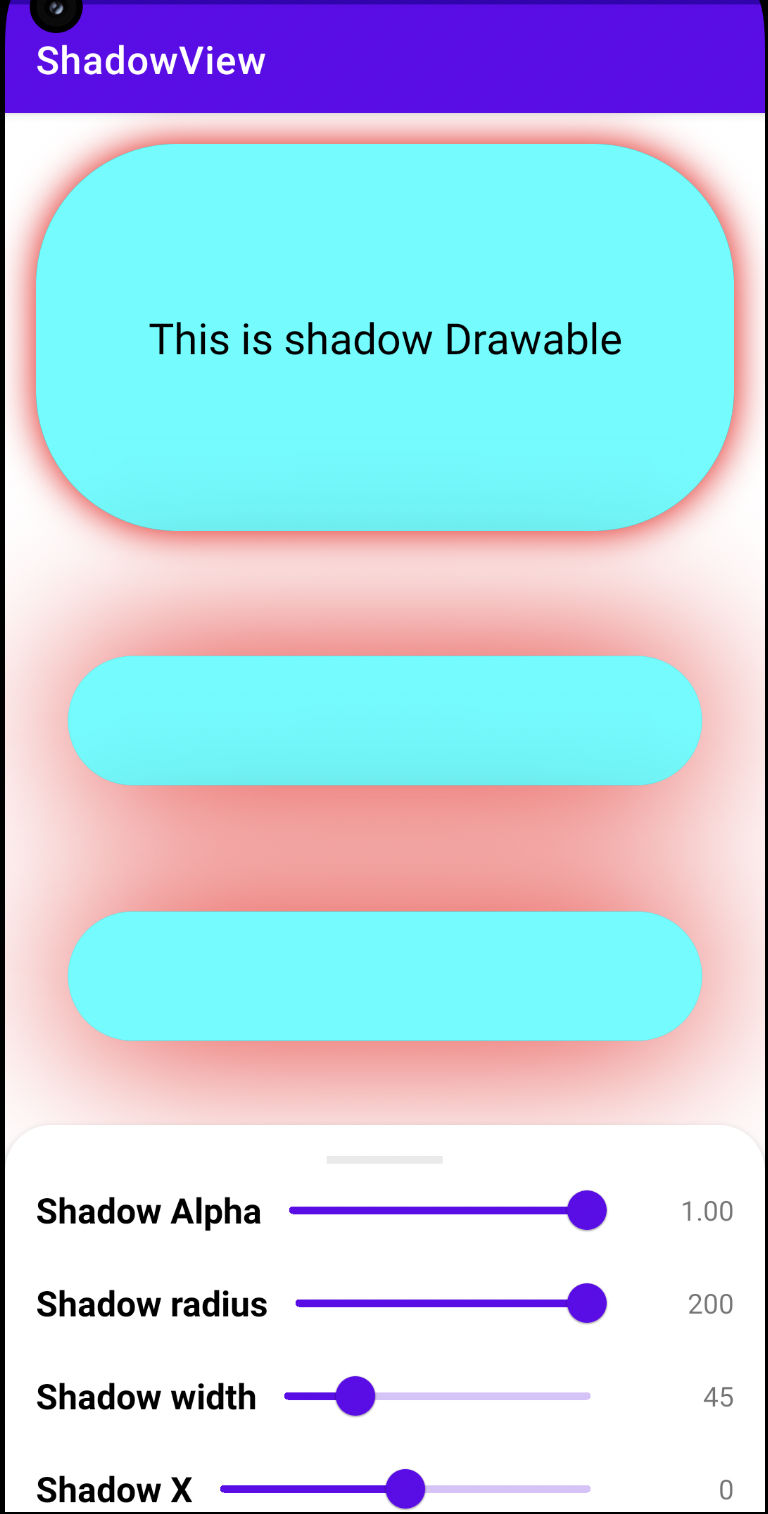
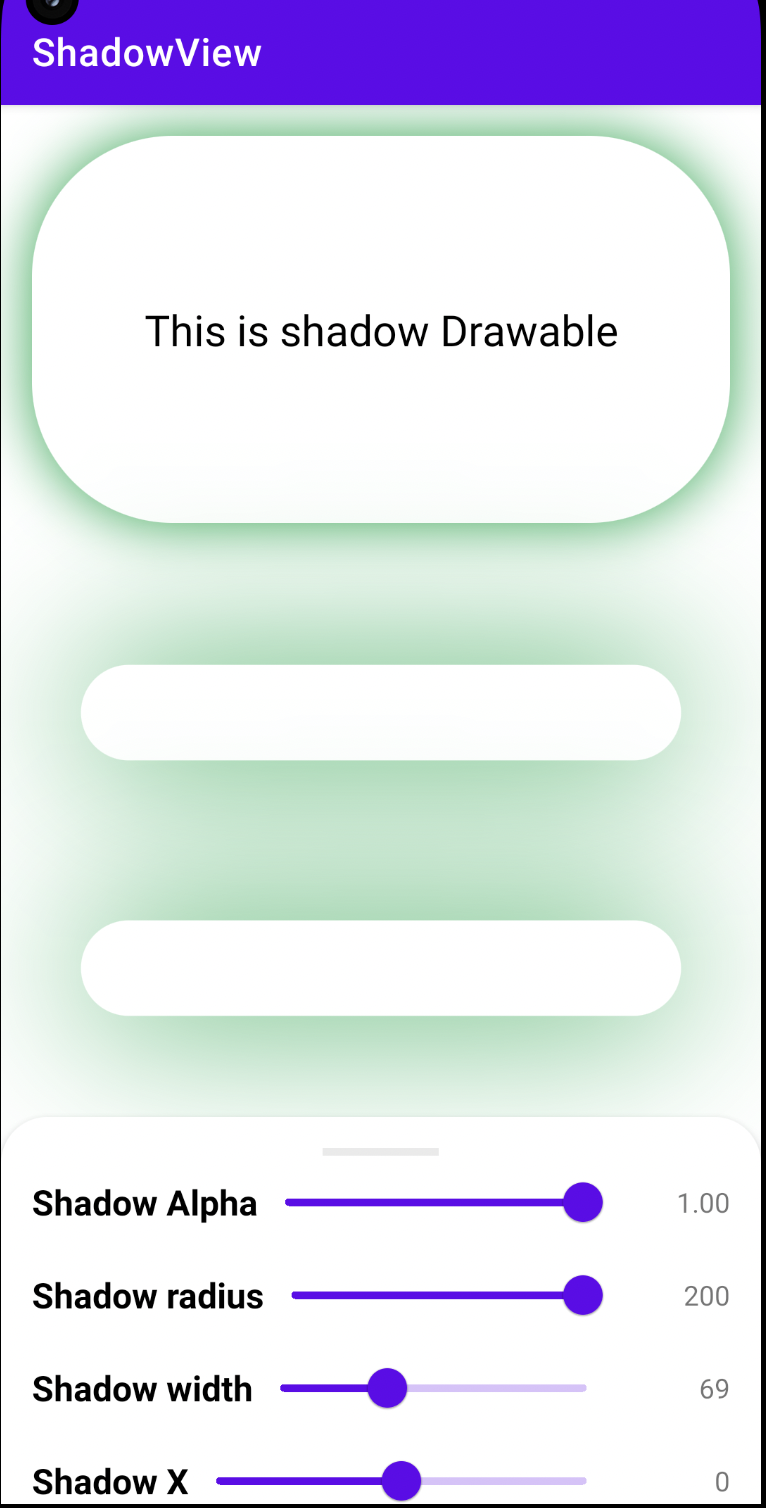
New screenshot

diff --git a/app/src/main/java/com/jack/shadowview/MainActivity.kt b/app/src/main/java/com/jack/shadowview/MainActivity.kt
@@ -28,8 +28,8 @@ class MainActivity : AppCompatActivity() {
     private lateinit var shadowColorView: View
     private lateinit var backgroundColorView: View
 
-    private var backgroundColor: Int = Color.CYAN
-    private var shadowColor: Int = Color.RED
+    private var backgroundColor: Int = Color.WHITE
+    private var shadowColor: Int = Color.parseColor("#B0B0CC")
 
     override fun onCreate(savedInstanceState: Bundle?) {
         super.onCreate(savedInstanceState)
